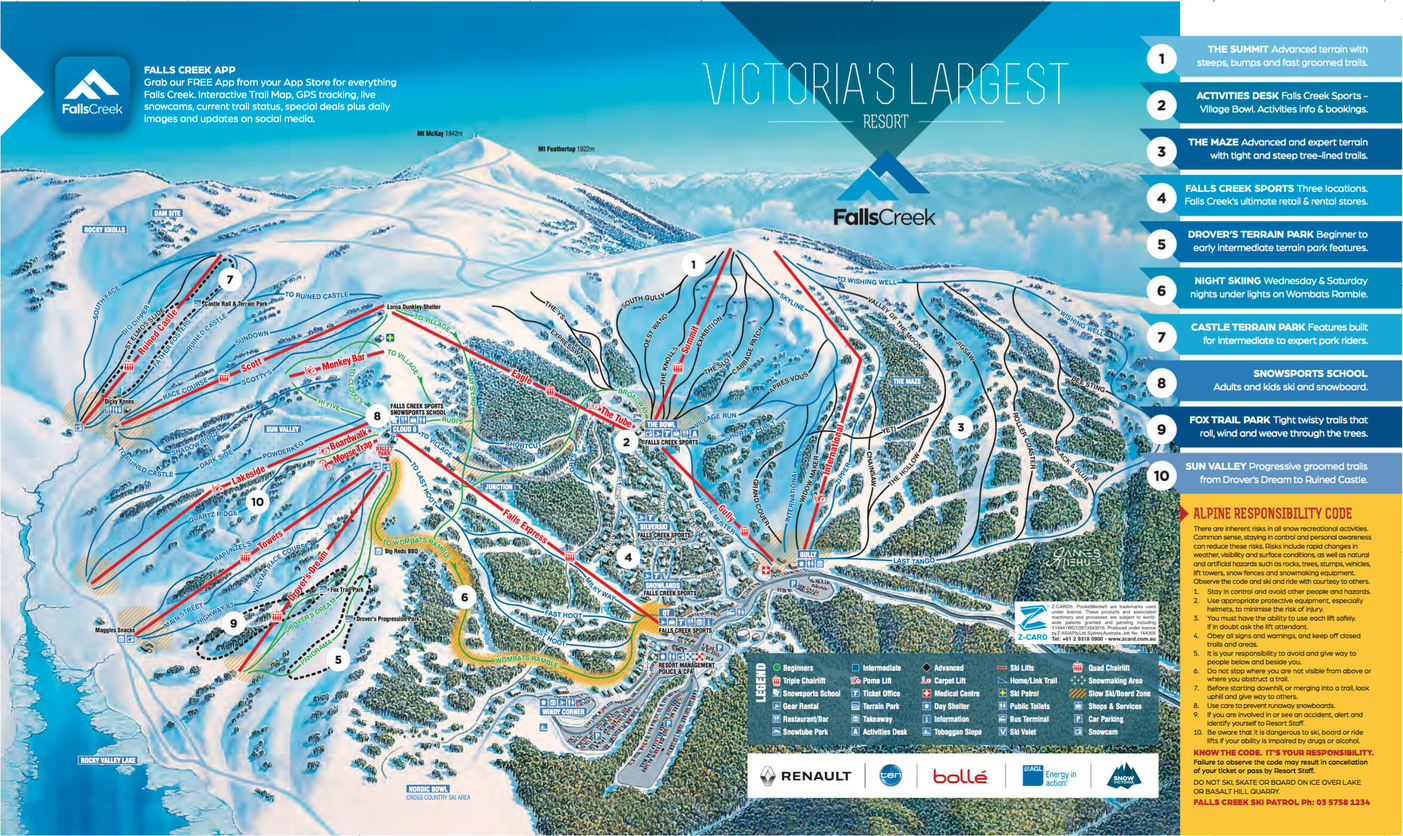
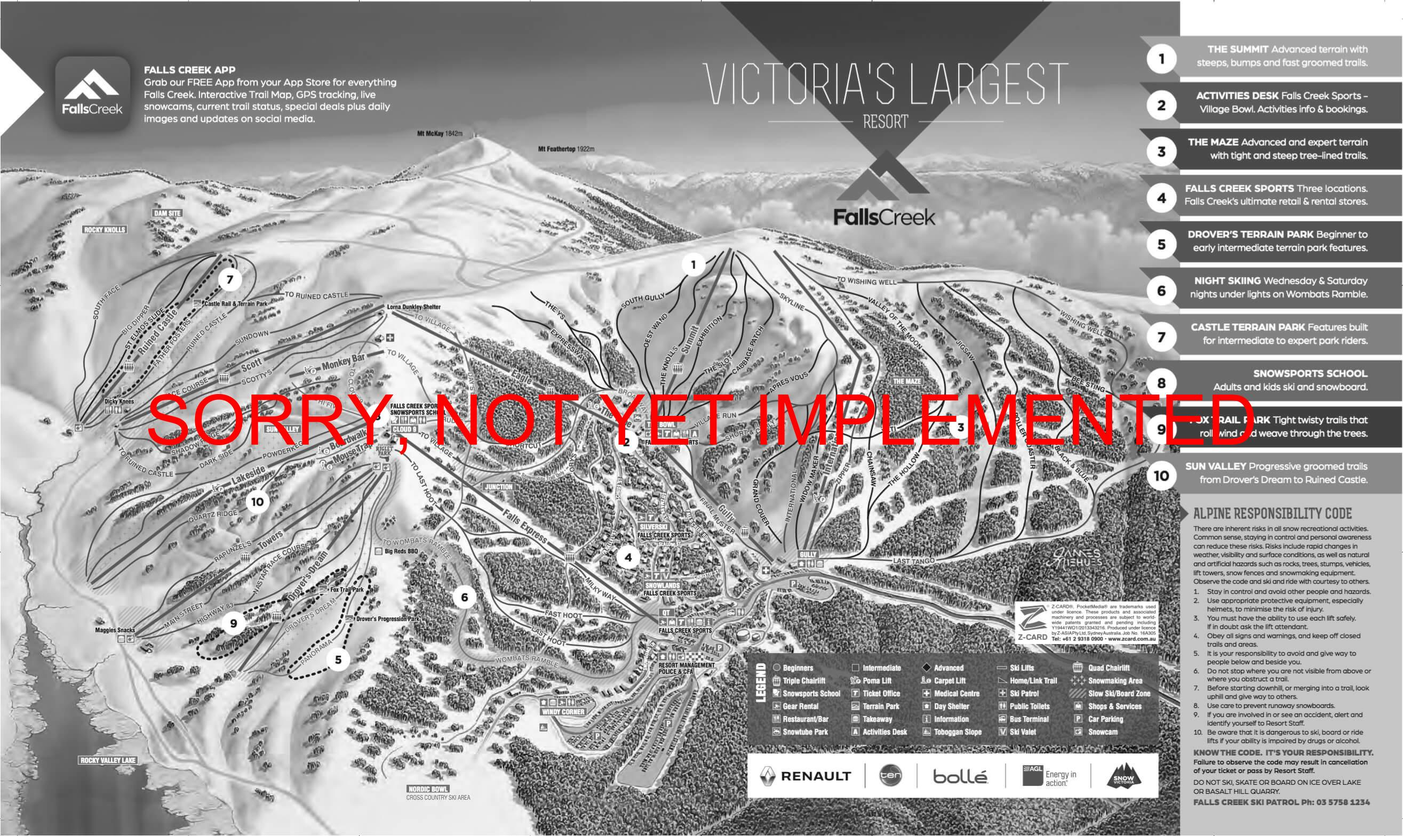
added offseason option for example display in summer

diff --git a/main.py b/main.py
@@ -1,10 +1,10 @@
 import requests
 from lxml import html
-from PIL import Image, ImageDraw, ImageColor, ImageFont, ImageOps
-from io import BytesIO, StringIO
-import os
+from PIL import Image, ImageDraw, ImageFont, ImageOps,ImageEnhance
+from io import BytesIO
 import json
 from flask import Flask, send_file
+
 __version__ = '1.0.0'
 app = Flask(__name__)
 
@@ -44,35 +44,18 @@ def get_img_coords(resort):
     return coords
 
 def get_trail_map_img(resort):
+
     trailmap = f'images/{resort}.jpg' 
-
-    return Image.open(trailmap)
+    trailmap = Image.open(trailmap)
+    
+    return trailmap
 
     
-
-def stamp_not_implemented(trail_map_img):
-
-    trail_map_img = ImageOps.grayscale(trail_map_img)
-    trail_map_img = trail_map_img.convert('RGB')
-
-    draw = ImageDraw.Draw(trail_map_img)
-
-    msg = "SORRY, NOT YET IMPLEMENTED"
-    
-    
-    W, H = trail_map_img.size
-
-    font = ImageFont.truetype("arial.ttf", int(W/20))
-    w, h = draw.textsize(msg,font)
-
-    draw.text(((W-w)/2,(H-h)/2), msg, font=font,fill="red")
-    
-    return trail_map_img
-
-
-
 
 def apply_lift_statuses(trail_map_img,coords,lifts):
+
+    filter = ImageEnhance.Color(trail_map_img)
+    trail_map_img = filter.enhance(.3)
 
     draw = ImageDraw.Draw(trail_map_img)
 
@@ -104,22 +87,30 @@ def get_version():
 def generate_map(resort):
 
     resort = str(resort)
-
-    lifts = get_lifts(resort)
-    trail_map_img = get_trail_map_img(resort)
-
-    if lifts == None:
-        return serve_pil_image(stamp_not_implemented(trail_map_img))
     
-    else:
-        coords = get_img_coords(resort)
+    if resort in ['buller','hotham','falls','thredbo']:
+        trail_map_img = get_trail_map_img(resort)
+        
+        return serve_pil_image(trail_map_img)
 
+    elif resort in ['perisher']:
+
+        lifts = get_lifts(resort)
+        trail_map_img = get_trail_map_img(resort)
+        coords = get_img_coords(resort)
         trail_map_img = apply_lift_statuses(trail_map_img,coords,lifts)
 
         return serve_pil_image(trail_map_img)
+    
 
+    elif resort == 'offseason':
+        trail_map_img = get_trail_map_img("perisher_offseason")
+        
+        return serve_pil_image(trail_map_img)
+        
 
 
 if __name__ == "__main__":
-
     app.run(host="127.0.0.1", port=8080, debug=True)
+
+
